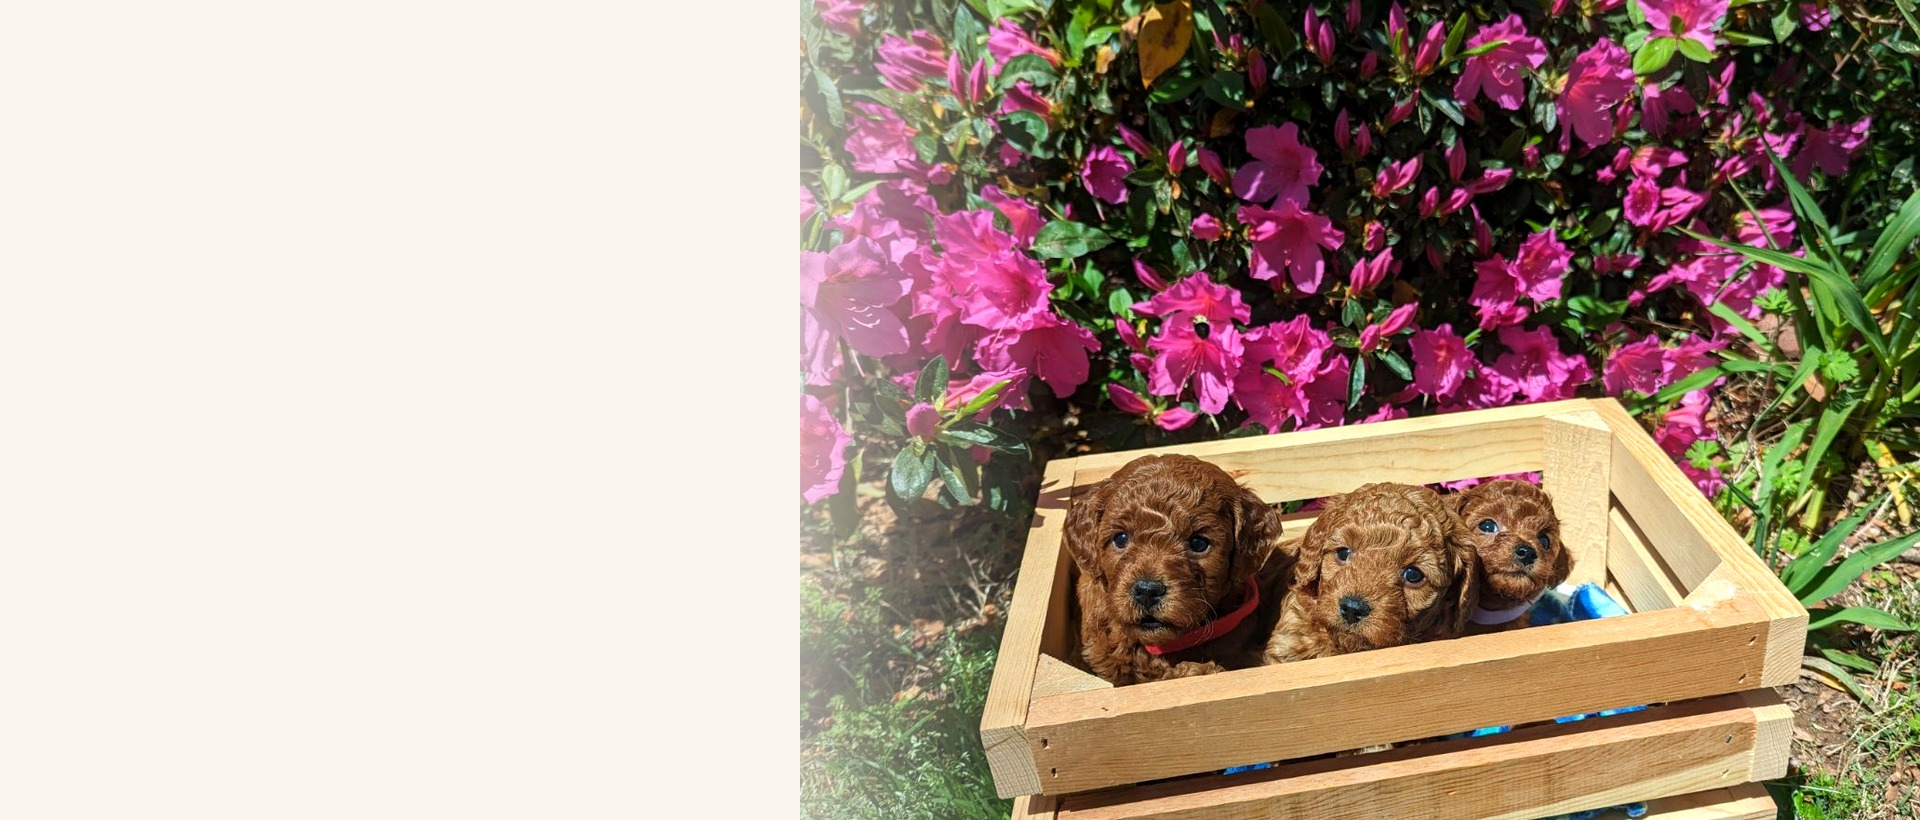
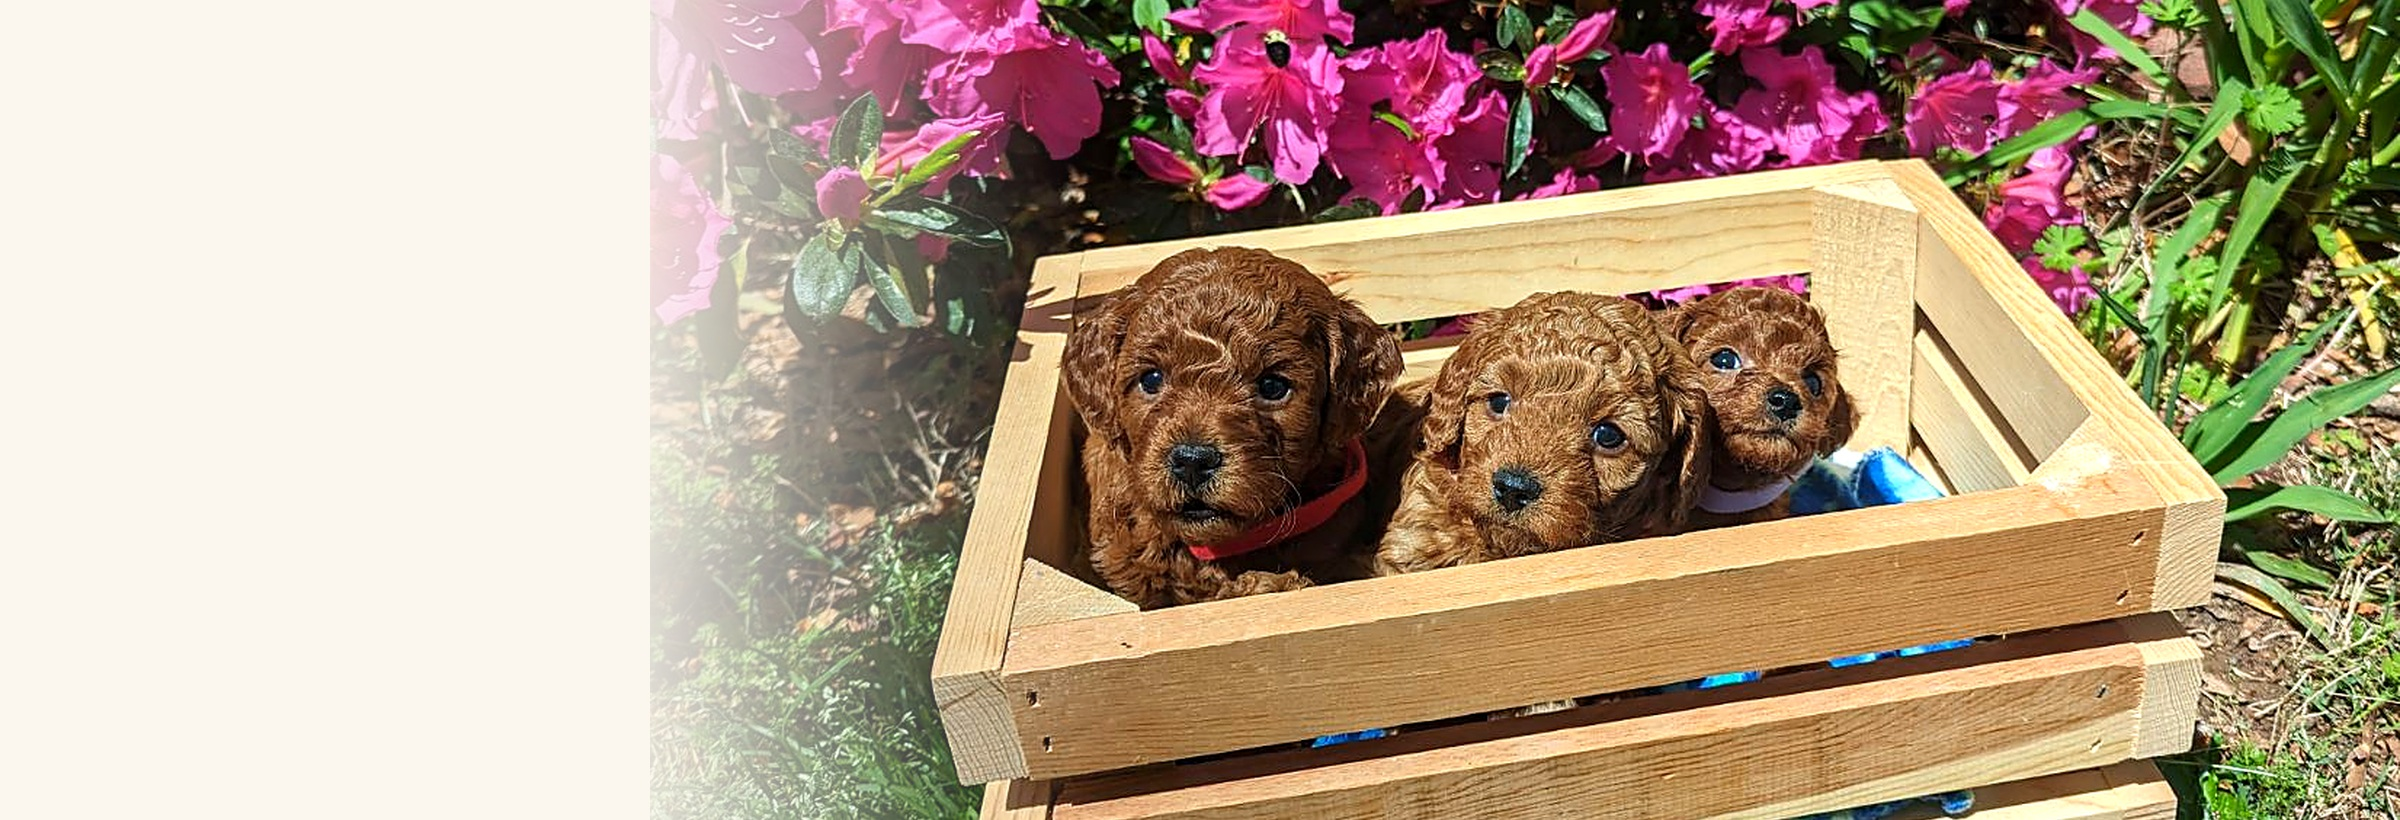
Add files via upload

diff --git a/style.css b/style.css
@@ -23,8 +23,8 @@ a{color:inherit;text-decoration:none}
 .brand{font-family:'Cormorant Garamond',serif;font-size:32px;font-weight:700;letter-spacing:-.02em}
 .links{display:flex;align-items:center;gap:32px;text-transform:uppercase;font-size:13px;font-weight:800;letter-spacing:.12em}
 .links a{white-space:nowrap}.pill,.btn.primary{background:var(--sage-dark);color:white;border-color:var(--sage-dark)}.pill{padding:15px 25px;border-radius:999px}
-.hero{min-height:760px;position:relative;display:flex;align-items:center;overflow:hidden;border-bottom:1px solid var(--line);background-color:var(--cream)}
-.hero:before{content:"";position:absolute;inset:0;z-index:0;background-image:url('images/hero-bg-desktop.jpg');background-size:cover;background-position:center center;background-repeat:no-repeat}
+.hero{min-height:720px;position:relative;display:flex;align-items:center;overflow:hidden;border-bottom:1px solid var(--line);background-color:var(--cream)}
+.hero:before{content:"";position:absolute;inset:0;z-index:0;background-image:url('images/hero-bg-desktop.jpg');background-size:100% 100%;background-position:center center;background-repeat:no-repeat}
 .hero .wrap{position:relative;z-index:1}
 .hero-text{max-width:520px;padding:76px 0 88px}
 .eyebrow,.section-label{text-transform:uppercase;letter-spacing:.18em;font-weight:800;font-size:13px;color:var(--sage);margin-bottom:22px}